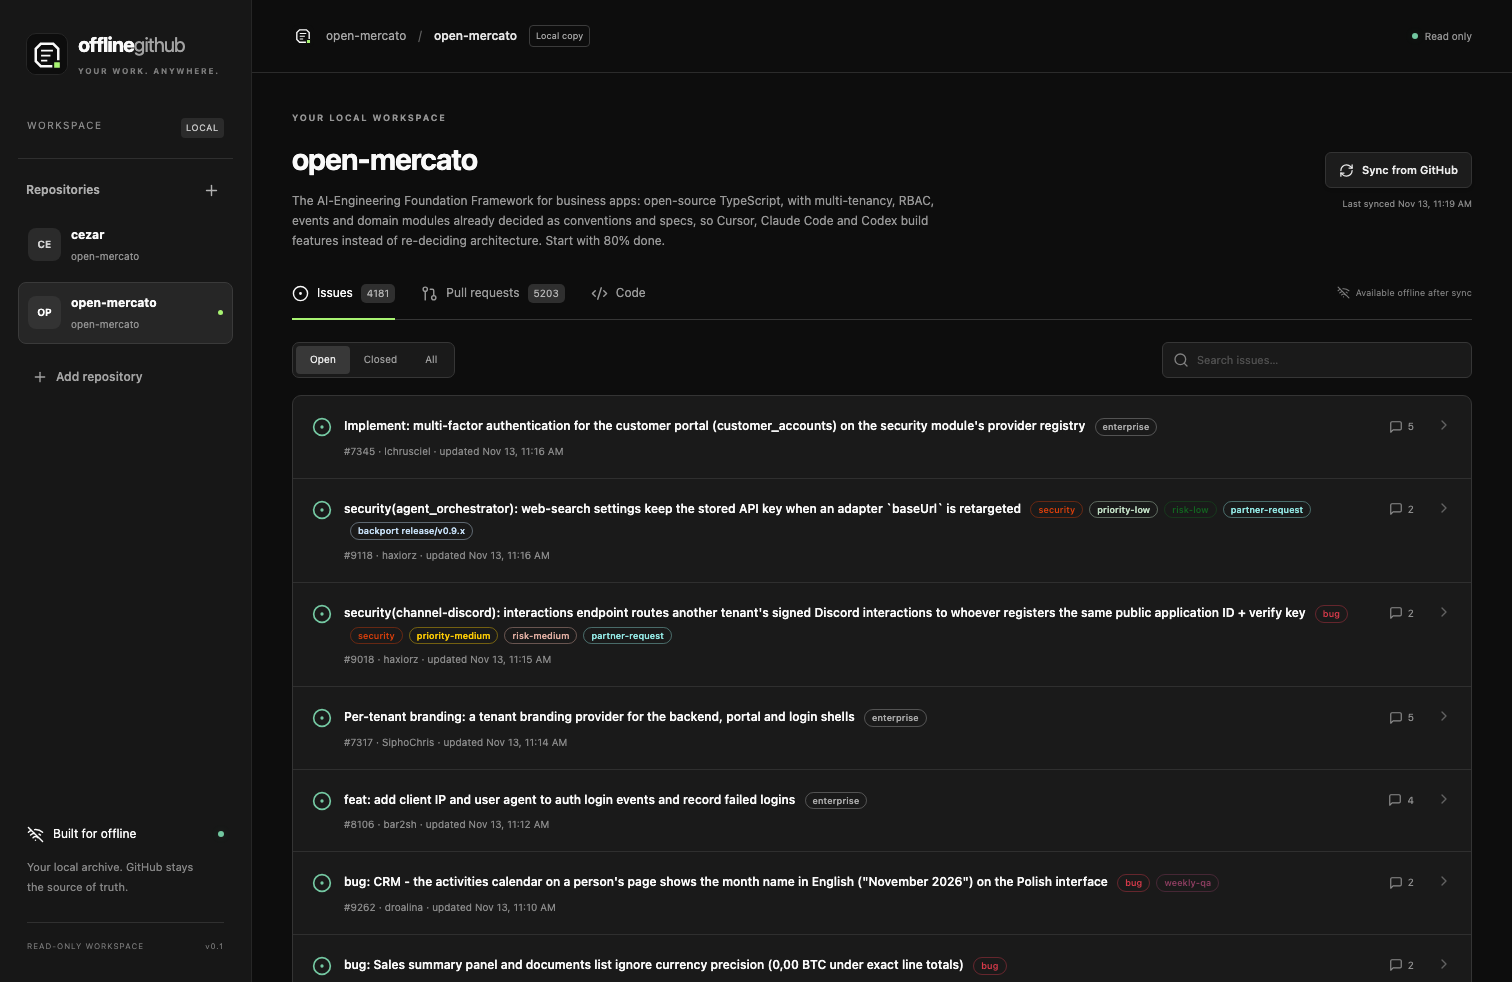
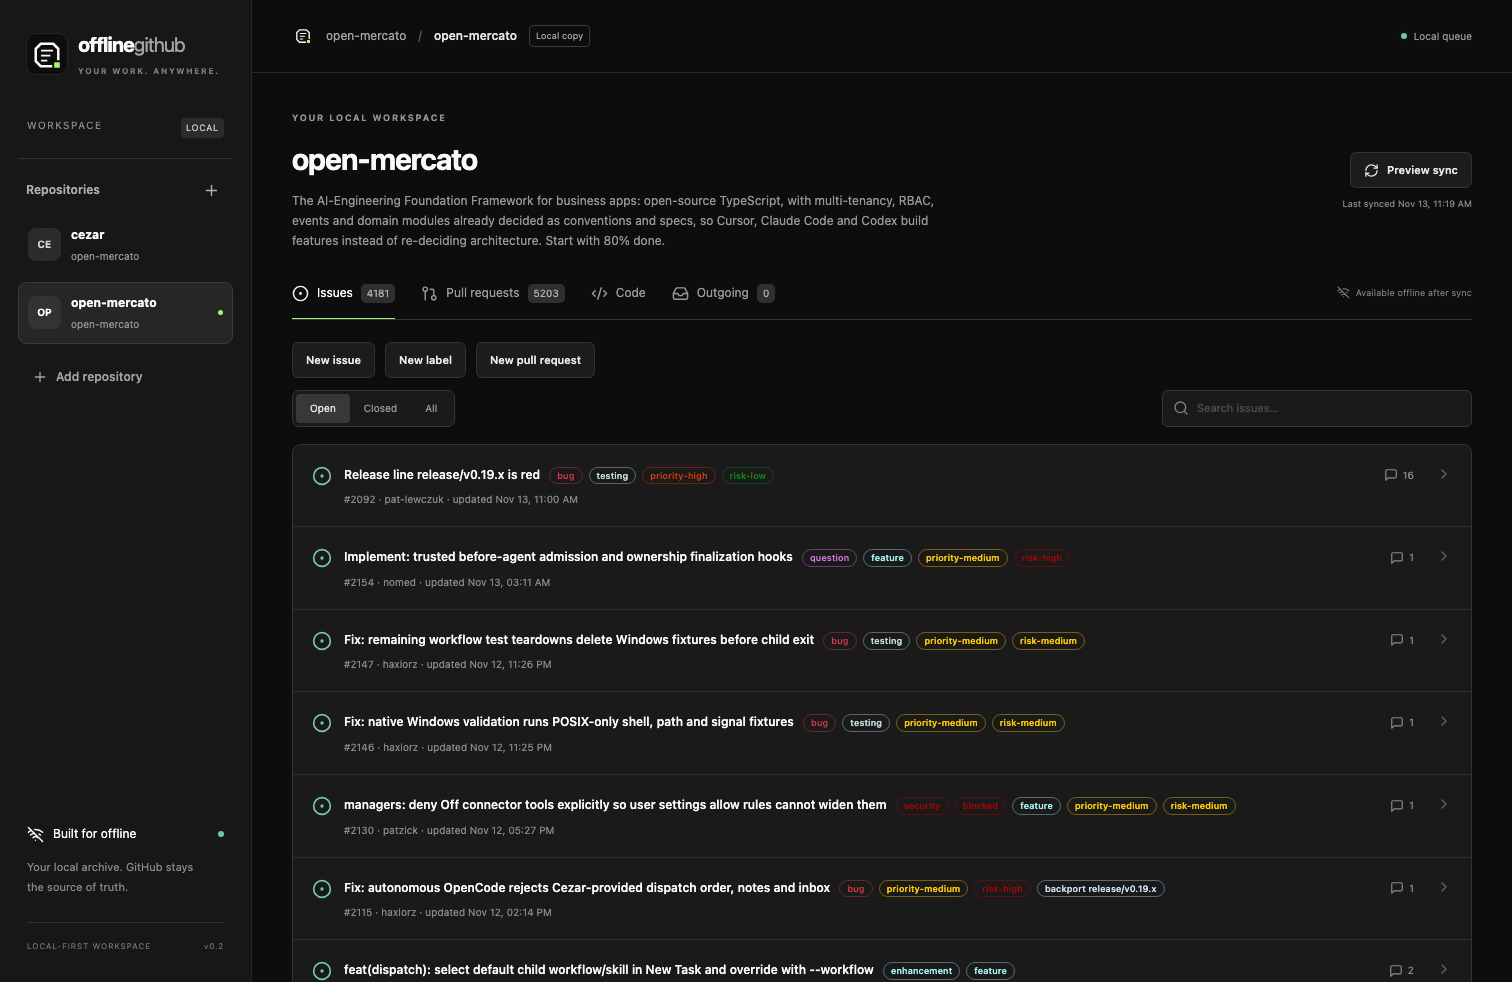
docs: refresh offline-write screenshots and highlight unresolved sync warnings

diff --git a/web/src/main.tsx b/web/src/main.tsx
@@ -116,6 +116,7 @@ function App() {
     [error, setError] = useState(""),
     [syncing, setSyncing] = useState(false),
     [notice, setNotice] = useState(""),
+    [noticeWarning, setNoticeWarning] = useState(false),
     [version, setVersion] = useState(0),
     [addOpen, setAddOpen] = useState(false),
     [newRepo, setNewRepo] = useState(""),
@@ -201,6 +202,7 @@ function App() {
     setSyncing(true);
     setError("");
     setNotice("");
+    setNoticeWarning(false);
     try {
       const plan = await api<Outbox>("/api/outbox/sync", {
         method: "POST",
@@ -218,6 +220,7 @@ function App() {
     setSyncing(true);
     setError("");
     setNotice("");
+    setNoticeWarning(false);
     try {
       const result = await api<Outbox>("/api/outbox/sync", {
         method: "POST",
@@ -227,6 +230,7 @@ function App() {
       const errors =
         result.incoming_errors &&
         Object.keys(result.incoming_errors as object).length > 0;
+      setNoticeWarning(remaining > 0 || Boolean(errors));
       setNotice(
         `${remaining ? `${remaining} outgoing changes remain unresolved.` : "Outgoing changes reconciled."}${errors ? ` Cache refresh errors: ${JSON.stringify(result.incoming_errors)}` : " Incoming refresh completed."}`,
       );
@@ -257,6 +261,7 @@ function App() {
       setNumber(null);
       setAddOpen(false);
       setNewRepo("");
+      setNoticeWarning(false);
       setNotice("Repository added. Sync it to download a local copy.");
     } catch (e) {
       setAddError((e as Error).message);
@@ -301,6 +306,7 @@ function App() {
                 setNumber(null);
                 setError("");
                 setNotice("");
+    setNoticeWarning(false);
                 setMobile(false);
               }}
             >
@@ -383,8 +389,8 @@ function App() {
           </div>
           {error && <ErrorBox error={error} />}
           {notice && (
-            <div className="notice" role="status">
-              <Check size={16} />
+            <div className={noticeWarning ? "notice notice-warning" : "notice"} role={noticeWarning ? "alert" : "status"}>
+              {noticeWarning ? <AlertCircle size={16} /> : <Check size={16} />}
               {notice}
             </div>
           )}

diff --git a/web/src/style.css b/web/src/style.css
@@ -1348,3 +1348,5 @@ textarea {
     padding: 20px;
   }
 }
+
+.notice-warning { background: #2d2513; border-color: #5b451b; color: #facc6b; }

diff --git a/README.md b/README.md
@@ -216,6 +216,10 @@ Bare `--json` retains legacy raw ogh output; `--json number,title,…` returns g
 <details><summary>📸 More screenshots</summary>
 
 ![Open Mercato workspace](docs/screenshots/open-mercato.png)
+![Outgoing changes and report export — local test fixture](docs/screenshots/outgoing.png)
+![Conflict comparison — local test fixture](docs/screenshots/conflict.png)
+
+*Queue/conflict screenshots use isolated test fixtures; no test changes were posted to real GitHub.*
 ![PR diff](docs/screenshots/pull-request.png)
 ![Local source browser](docs/screenshots/source.png)
 <img src="docs/screenshots/mobile.png" width="320" alt="Mobile workspace" />
